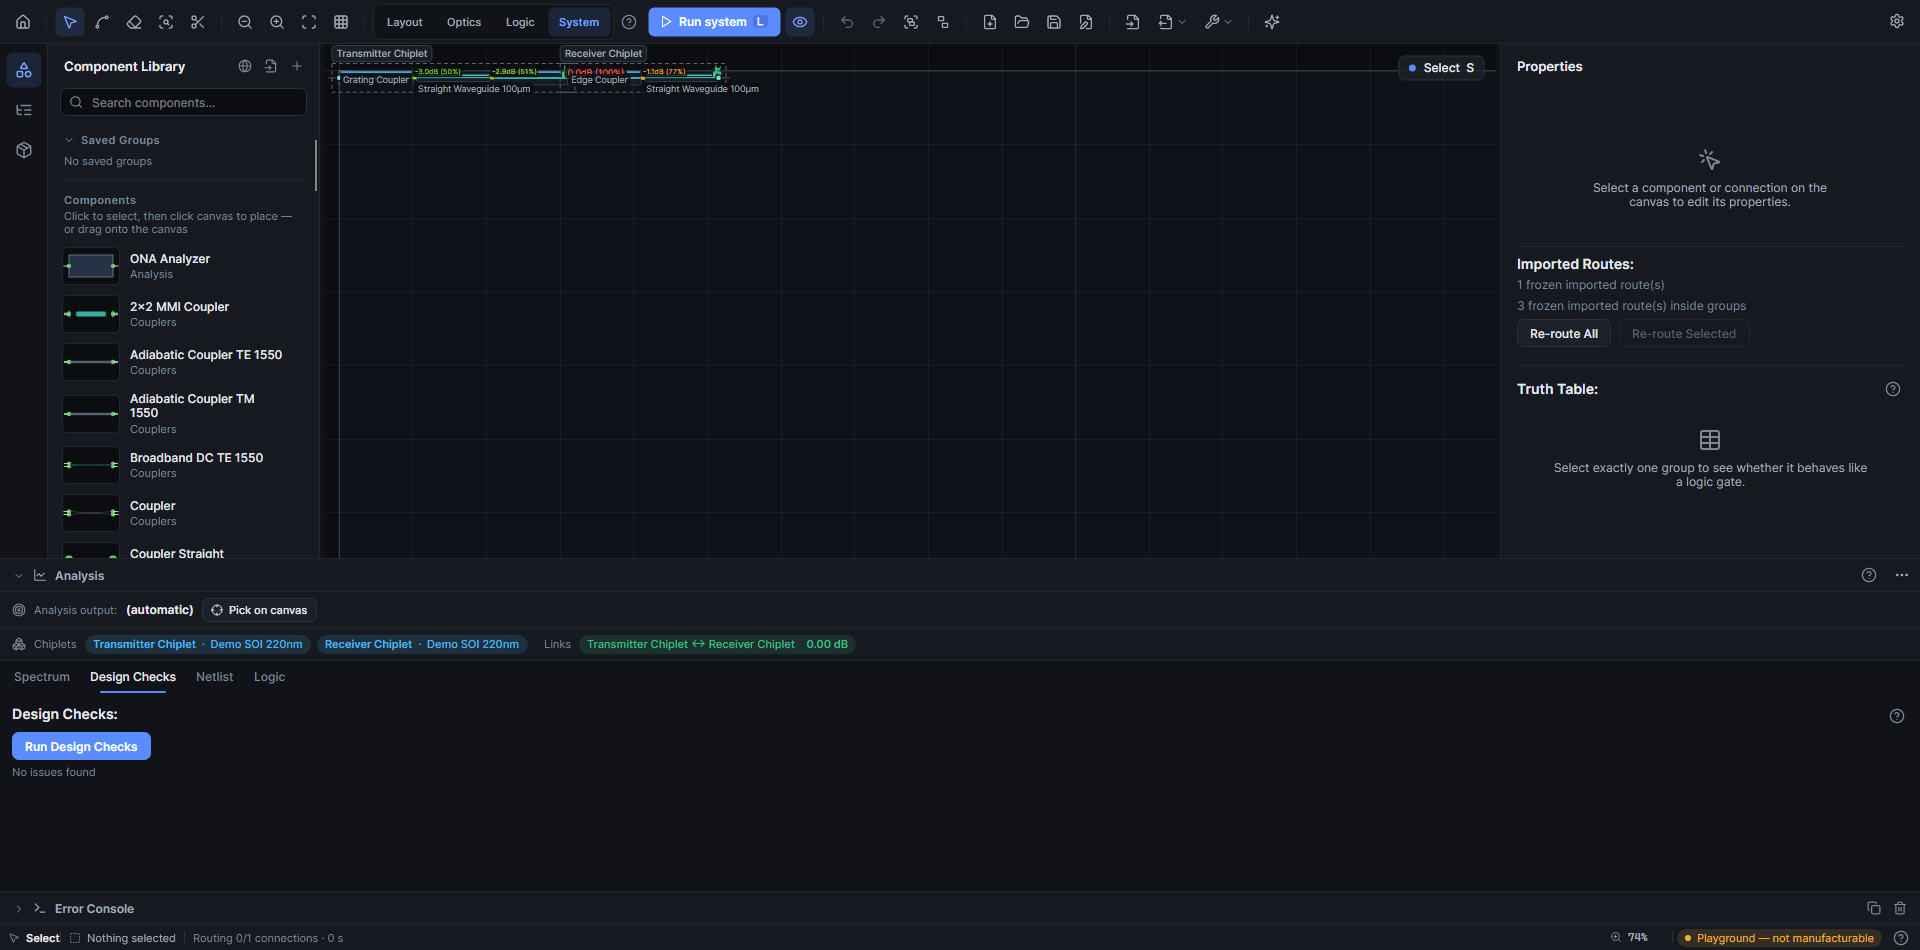
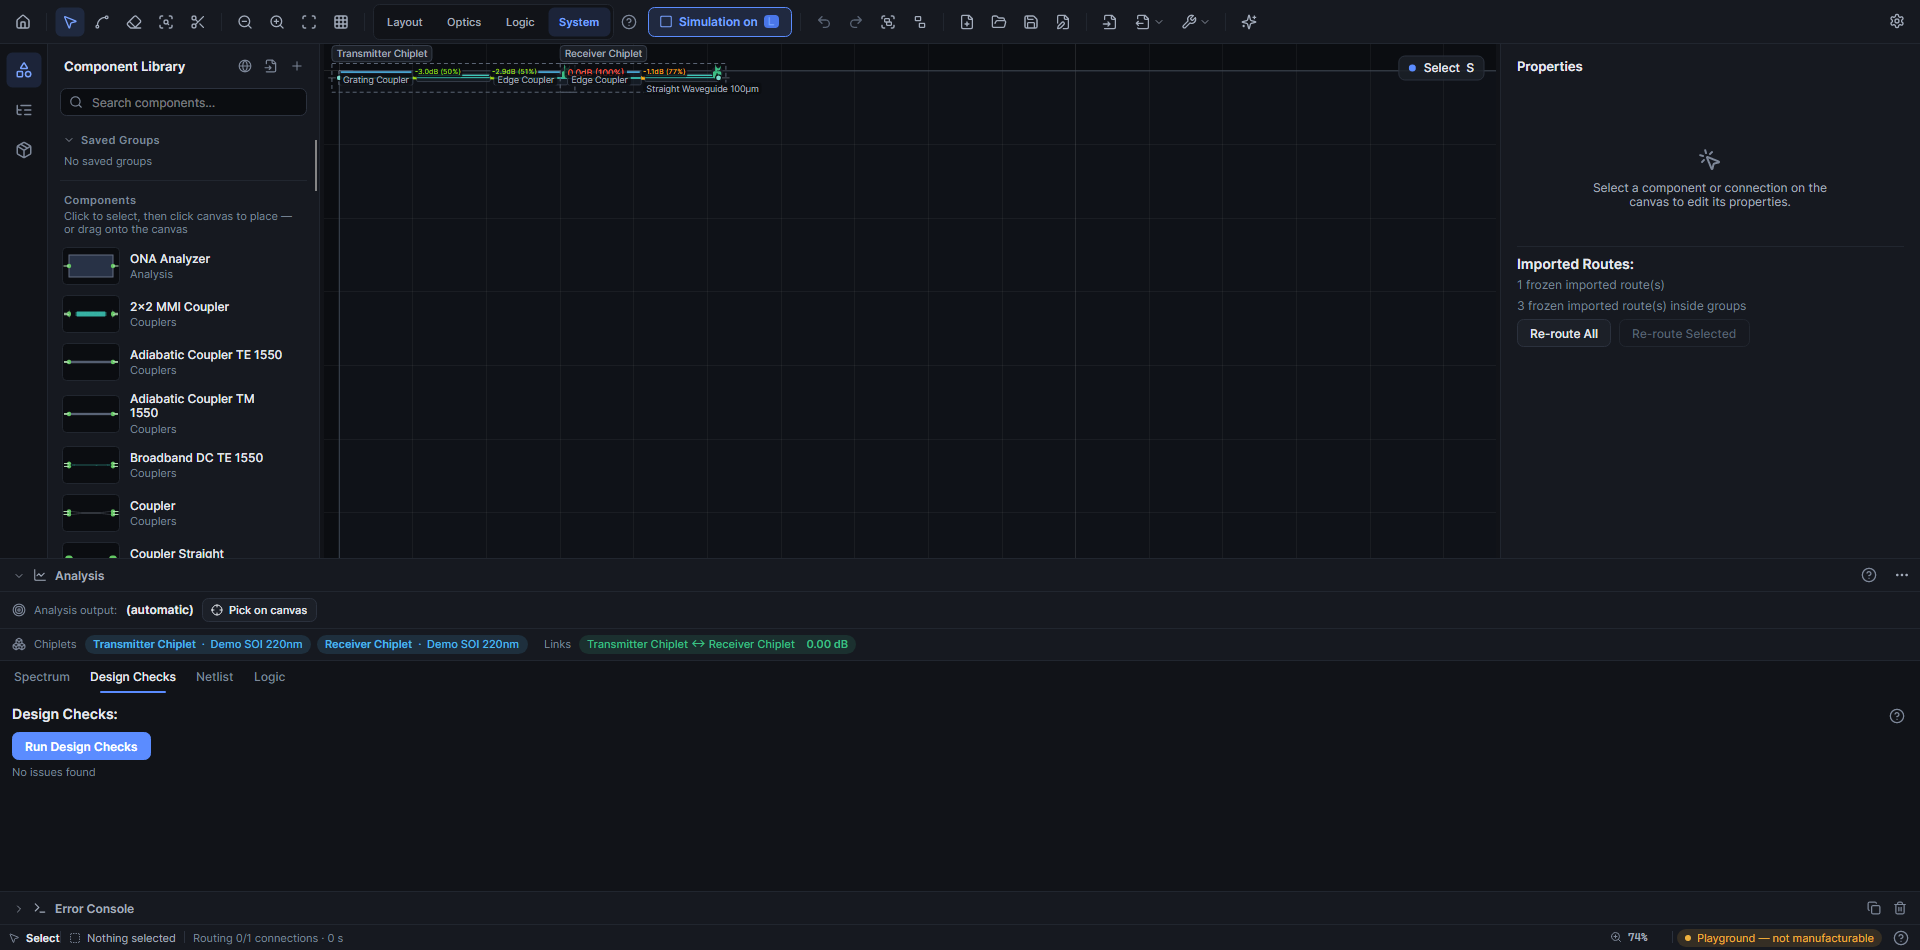
feat(workspaces): Run is the simulation on/off toggle again in Optics and System
One button instead of Run + eye: in Optics (CW) and System the first Run (or L / P)
simulates and shows the power overlay, the button then looks pressed ("Simulation on",
stop icon, tooltip "Turn simulation off (L, P)") and the next press turns it off.
Optics in Transient starts a transient run on every press; Layout (Run checks) and
Logic (Run logic) keep their non-toggle behaviour. P is the same CW toggle in every
workspace. The separate eye button and its tooltip string are gone; workspace help,
shortcut reference and tooltips updated in all five languages.

diff --git a/CAP.Avalonia/ViewModels/MainViewModel.Workspaces.cs b/CAP.Avalonia/ViewModels/MainViewModel.Workspaces.cs
@@ -7,8 +7,8 @@ namespace CAP.Avalonia.ViewModels;
 
 /// <summary>
 /// Workspace half of <see cref="MainViewModel"/>: the toolbar's workspace switch, the
-/// workspace-dependent Run action, the power-overlay toggle beside Run, and the System
-/// workspace's chiplet overview.
+/// workspace-dependent Run action (an on/off toggle of the simulation in Optics and
+/// System), and the System workspace's chiplet overview.
 /// </summary>
 public partial class MainViewModel
 {
@@ -28,6 +28,12 @@ public partial class MainViewModel
             if (workspaces.IsSystem)
                 RefreshSystemOverview();
         };
+        workspaces.IsSimulationOn = Canvas.ShowPowerFlow;
+        Canvas.PropertyChanged += (_, e) =>
+        {
+            if (e.PropertyName == nameof(Canvas.ShowPowerFlow))
+                workspaces.IsSimulationOn = Canvas.ShowPowerFlow;
+        };
         workspaces.PropertyChanged += (_, e) =>
         {
             if (e.PropertyName == nameof(WorkspaceViewModel.Current) && workspaces.IsSystem)
@@ -39,9 +45,10 @@ public partial class MainViewModel
 
     /// <summary>
     /// The Run button and the L key: runs what the active workspace means by "run".
-    /// Layout checks the design; Optics simulates (CW or transient); Logic builds the
-    /// logic network, then steps the clock; System checks the chiplet links and runs
-    /// the CW simulation over the whole multi-chiplet design.
+    /// Layout checks the design; Logic builds the logic network, then steps the clock.
+    /// Optics (CW) and System toggle: the first press simulates and shows the power
+    /// overlay (System checks the chiplet links first), the next press turns the
+    /// simulation off. Optics in Transient mode starts a transient run each press.
     /// </summary>
     [RelayCommand]
     private async Task RunWorkspace()
@@ -52,14 +59,19 @@ public partial class MainViewModel
                 await RunDesignChecks();
                 BottomPanel.Analysis.OpenChecks();
                 break;
-            case Workspace.Optics:
+            case Workspace.Optics when SimulationMode == Analysis.SimulationMode.Transient:
                 await RunSimulation();
+                break;
+            case Workspace.Optics:
+                if (!TryTurnSimulationOff())
+                    await RunSimulation();
                 break;
             case Workspace.Logic:
                 await RunLogicStep();
                 break;
             case Workspace.System:
-                await RunSystem();
+                if (!TryTurnSimulationOff())
+                    await RunSystem();
                 break;
         }
     }
@@ -93,30 +105,30 @@ public partial class MainViewModel
     }
 
     /// <summary>
-    /// The eye button beside Run and the P key: shows or hides the CW power-flow overlay.
-    /// Showing it without a result yet runs the CW simulation first.
+    /// The P key: the CW simulation on/off toggle in every workspace — the same toggle Run
+    /// (L) is in Optics and System. Turns a running simulation off, otherwise runs the CW
+    /// simulation and shows its power overlay.
     /// </summary>
     [RelayCommand]
     private async Task TogglePowerOverlay()
     {
-        if (Canvas.ShowPowerFlow)
-        {
-            Canvas.ShowPowerFlow = false;
-            Canvas.PowerFlowVisualizer.IsEnabled = false;
-            StatusText = LocalizationService.Instance.Translate("Overlay.PowerFlowOff");
+        if (TryTurnSimulationOff())
             return;
-        }
+        await ExecuteSimulation();
+    }
 
-        if (Canvas.PowerFlowVisualizer.CurrentResult == null)
-        {
-            await ExecuteSimulation();
-        }
-        else
-        {
-            Canvas.ShowPowerFlow = true;
-            Canvas.PowerFlowVisualizer.IsEnabled = true;
-            StatusText = LocalizationService.Instance.Translate("Overlay.PowerFlowOn");
-        }
+    /// <summary>
+    /// Turns the CW simulation off (hides the power overlay, stops auto-resimulation) when
+    /// it is on. Returns false — and changes nothing — when it was off.
+    /// </summary>
+    private bool TryTurnSimulationOff()
+    {
+        if (!Canvas.ShowPowerFlow)
+            return false;
+        Canvas.ShowPowerFlow = false;
+        Canvas.PowerFlowVisualizer.IsEnabled = false;
+        StatusText = LocalizationService.Instance.Translate("Status.SimulationOverlayOff");
+        return true;
     }
 
     /// <summary>

diff --git a/UnitTests/Workspaces/MainViewModelWorkspaceTests.cs b/UnitTests/Workspaces/MainViewModelWorkspaceTests.cs
@@ -13,8 +13,9 @@ using Xunit;
 namespace UnitTests.Workspaces;
 
 /// <summary>
-/// Run dispatches on the workspace, Run no longer toggles the overlay (the eye button and P
-/// do), the workspace persists in the .lun file, and the System overview lists chiplets.
+/// Run dispatches on the workspace and is the simulation on/off toggle in Optics (CW) and
+/// System (L and P are the same toggle there), the workspace persists in the .lun file, and
+/// the System overview lists chiplets.
 /// </summary>
 [Collection("LocalizationSingleton")]
 public class MainViewModelWorkspaceTests
@@ -60,6 +61,49 @@ public class MainViewModelWorkspaceTests
     }
 
     [Fact]
+    public async Task Run_InOptics_WhileSimulationIsOn_TurnsItOff()
+    {
+        var vm = MainViewModelTestHelper.CreateMainViewModel();
+        vm.WorkspaceSwitch.Current = Workspace.Optics;
+        vm.Canvas.ShowPowerFlow = true;
+        vm.WorkspaceSwitch.IsRunActive.ShouldBeTrue("the Run button shows its pressed state while the overlay is on");
+
+        await vm.RunWorkspaceCommand.ExecuteAsync(null);
+
+        vm.Canvas.ShowPowerFlow.ShouldBeFalse();
+        vm.WorkspaceSwitch.IsRunActive.ShouldBeFalse();
+        vm.StatusText.ShouldBe(LocalizationService.Instance.Translate("Status.SimulationOverlayOff"));
+    }
+
+    [Fact]
+    public async Task Run_InOptics_Transient_StartsATransientRun_InsteadOfToggling()
+    {
+        var vm = MainViewModelTestHelper.CreateMainViewModel();
+        vm.WorkspaceSwitch.Current = Workspace.Optics;
+        vm.SimulationMode = CAP.Avalonia.ViewModels.Analysis.SimulationMode.Transient;
+
+        await vm.RunWorkspaceCommand.ExecuteAsync(null);
+        await vm.RunWorkspaceCommand.ExecuteAsync(null);
+
+        vm.BottomPanel.Analysis.SelectedTabIndex.ShouldBe((int)AnalysisDockTab.Transient);
+        vm.Canvas.ShowPowerFlow.ShouldBeFalse("a transient run never shows the CW overlay");
+        vm.WorkspaceSwitch.IsRunActive.ShouldBeFalse();
+    }
+
+    [Fact]
+    public async Task Run_InLayout_DoesNotTurnARunningSimulationOff()
+    {
+        var vm = MainViewModelTestHelper.CreateMainViewModel();
+        vm.WorkspaceSwitch.Current = Workspace.Layout;
+        vm.Canvas.ShowPowerFlow = true;
+
+        await vm.RunWorkspaceCommand.ExecuteAsync(null);
+
+        vm.Canvas.ShowPowerFlow.ShouldBeTrue("Run checks is not a toggle");
+        vm.WorkspaceSwitch.IsRunActive.ShouldBeFalse("only Optics and System show Run as pressed");
+    }
+
+    [Fact]
     public async Task RunSimulation_WhileOverlayShows_DoesNotToggleItOff()
     {
         var vm = MainViewModelTestHelper.CreateMainViewModel();
@@ -67,7 +111,7 @@ public class MainViewModelWorkspaceTests
 
         await vm.RunSimulationCommand.ExecuteAsync(null);
 
-        vm.Canvas.ShowPowerFlow.ShouldBeTrue("Run always runs; hiding the overlay is the eye button's job");
+        vm.Canvas.ShowPowerFlow.ShouldBeTrue("the plain simulate command always runs; Run/L/P own the toggle");
         vm.StatusText.ShouldNotBe(LocalizationService.Instance.Translate("Status.SimulationOverlayOff"));
     }
 
@@ -81,7 +125,6 @@ public class MainViewModelWorkspaceTests
 
         vm.Canvas.ShowPowerFlow.ShouldBeFalse();
     }
-
     [Fact]
     public async Task Run_InSystem_OnTwoChipletExample_ShowsChipletsLinks_AndOverlay()
     {
@@ -96,7 +139,17 @@ public class MainViewModelWorkspaceTests
         vm.SystemOverview.Chiplets.Count.ShouldBeGreaterThanOrEqualTo(2);
         vm.SystemOverview.Links.ShouldNotBeEmpty();
         vm.Canvas.ShowPowerFlow.ShouldBeTrue(vm.StatusText);
+        vm.WorkspaceSwitch.IsRunActive.ShouldBeTrue();
         vm.BottomPanel.Analysis.SelectedTabIndex.ShouldBe((int)AnalysisDockTab.Checks);
+
+        await vm.RunWorkspaceCommand.ExecuteAsync(null);
+
+        vm.Canvas.ShowPowerFlow.ShouldBeFalse("the second Run turns the system simulation off");
+        vm.WorkspaceSwitch.IsRunActive.ShouldBeFalse();
+
+        await vm.TogglePowerOverlayCommand.ExecuteAsync(null);
+
+        vm.Canvas.ShowPowerFlow.ShouldBeTrue("P is the same toggle: it switches the simulation back on");
     }
 
     [Fact]

diff --git a/CAP.Avalonia/ViewModels/Workspaces/WorkspaceViewModel.cs b/CAP.Avalonia/ViewModels/Workspaces/WorkspaceViewModel.cs
@@ -12,19 +12,30 @@ namespace CAP.Avalonia.ViewModels.Workspaces;
 /// <summary>
 /// The toolbar's workspace switch (Layout / Optics / Logic / System): holds the active
 /// <see cref="Workspace"/>, restricts the analysis dock to the workspace's tabs and exposes
-/// the Run button's label and tooltip. The workspace is stored per design in the .lun file
+/// the Run button's label, tooltip and pressed state. The workspace is stored per design in the .lun file
 /// (<see cref="CaptureForSave"/> / <see cref="RestoreAfterLoad"/>); switching it is a view
 /// change and does not mark the design dirty.
 /// </summary>
 public partial class WorkspaceViewModel : ObservableObject
 {
+    private const string ActiveRunLabelKey = "Workspace.RunActive";
+    private const string ActiveRunTipKey = "Workspace.RunActiveTip";
+
     private readonly AnalysisDockViewModel _dock;
 
     /// <summary>The active workspace.</summary>
     [ObservableProperty]
     [NotifyPropertyChangedFor(nameof(IsLayout), nameof(IsOptics), nameof(IsLogic), nameof(IsSystem),
-        nameof(Profile), nameof(RunLabel), nameof(RunTip), nameof(IsOpticalWorkspace))]
+        nameof(Profile), nameof(RunLabel), nameof(RunTip), nameof(IsOpticalWorkspace), nameof(IsRunActive))]
     private Workspace _current;
+
+    /// <summary>
+    /// Whether the CW simulation and its power overlay are on. Mirrors the canvas overlay
+    /// state; in Optics and System it turns Run into an on/off toggle (<see cref="IsRunActive"/>).
+    /// </summary>
+    [ObservableProperty]
+    [NotifyPropertyChangedFor(nameof(IsRunActive), nameof(RunLabel), nameof(RunTip))]
+    private bool _isSimulationOn;
 
     /// <summary>Creates the switch over the analysis dock it filters; starts in <see cref="Workspace.Layout"/>.</summary>
     public WorkspaceViewModel(AnalysisDockViewModel dock)
@@ -49,14 +60,22 @@ public partial class WorkspaceViewModel : ObservableObject
     /// <summary>True in the System workspace.</summary>
     public bool IsSystem => Current == Workspace.System;
 
-    /// <summary>True where Run simulates light (Optics, System): shows the power-overlay toggle and the analysis-output picker.</summary>
+    /// <summary>True where Run simulates light (Optics, System): Run toggles the simulation, and the analysis-output picker shows.</summary>
     public bool IsOpticalWorkspace => Current is Workspace.Optics or Workspace.System;
 
-    /// <summary>Run button label naming the action, e.g. "Run checks".</summary>
-    public string RunLabel => LocalizationService.Instance.Translate(Profile.RunLabelKey);
+    /// <summary>
+    /// True while Run shows its pressed state: the simulation is on in a light-simulating
+    /// workspace, so the next Run (or L / P) turns it off.
+    /// </summary>
+    public bool IsRunActive => IsOpticalWorkspace && IsSimulationOn;
 
-    /// <summary>Run button tooltip: what Run does in this workspace, with its key hint.</summary>
-    public string RunTip => LocalizationService.Instance.Translate(Profile.RunTipKey);
+    /// <summary>Run button label naming the action, e.g. "Run checks", or "Simulation on" while active.</summary>
+    public string RunLabel => LocalizationService.Instance.Translate(
+        IsRunActive ? ActiveRunLabelKey : Profile.RunLabelKey);
+
+    /// <summary>Run button tooltip: what Run does in this workspace (or how to turn it off), with its key hint.</summary>
+    public string RunTip => LocalizationService.Instance.Translate(
+        IsRunActive ? ActiveRunTipKey : Profile.RunTipKey);
 
     /// <summary>Switches to <paramref name="workspace"/> (toolbar segments, Ctrl+1..4).</summary>
     [RelayCommand]

diff --git a/UnitTests/Workspaces/WorkspaceViewModelTests.cs b/UnitTests/Workspaces/WorkspaceViewModelTests.cs
@@ -89,6 +89,45 @@ public class WorkspaceViewModelTests
         vm.IsOpticalWorkspace.ShouldBeTrue("System runs the CW simulation too");
     }
 
+    [Theory]
+    [InlineData(Workspace.Optics, true)]
+    [InlineData(Workspace.System, true)]
+    [InlineData(Workspace.Layout, false)]
+    [InlineData(Workspace.Logic, false)]
+    public void RunIsAToggle_OnlyWhereItSimulatesLight(Workspace workspace, bool toggles)
+    {
+        var vm = new WorkspaceViewModel(MakeDock()) { Current = workspace };
+        string offLabel = vm.RunLabel;
+
+        vm.IsSimulationOn = true;
+
+        vm.IsRunActive.ShouldBe(toggles);
+        if (toggles)
+        {
+            vm.RunLabel.ShouldNotBe(offLabel, "the pressed Run names its state, e.g. \"Simulation on\"");
+            vm.RunTip.ShouldContain("(L, P)");
+        }
+        else
+        {
+            vm.RunLabel.ShouldBe(offLabel, "Run checks / Run logic never become a toggle");
+        }
+    }
+
+    [Fact]
+    public void RunActive_RaisesLabelChanges_WhenTheSimulationTurnsOff()
+    {
+        var vm = new WorkspaceViewModel(MakeDock()) { Current = Workspace.Optics, IsSimulationOn = true };
+        var changed = new List<string?>();
+        vm.PropertyChanged += (_, e) => changed.Add(e.PropertyName);
+
+        vm.IsSimulationOn = false;
+
+        vm.IsRunActive.ShouldBeFalse();
+        changed.ShouldContain(nameof(WorkspaceViewModel.IsRunActive));
+        changed.ShouldContain(nameof(WorkspaceViewModel.RunLabel));
+        changed.ShouldContain(nameof(WorkspaceViewModel.RunTip));
+    }
+
     [Fact]
     public void ShowAllTabs_ShowsEveryTab_AndKeepsSelection()
     {

diff --git a/UnitTests/UI/WorkspacesScreenshotTests.cs b/UnitTests/UI/WorkspacesScreenshotTests.cs
@@ -15,8 +15,8 @@ using Xunit;
 namespace UnitTests.UI;
 
 /// <summary>
-/// Visual documentation of the workspace switch: the toolbar (switch, Run label, overlay
-/// eye) and the analysis dock in each of Layout / Optics / Logic / System, the System
+/// Visual documentation of the workspace switch: the toolbar (switch, Run label and its
+/// pressed "Simulation on" state) and the analysis dock in each of Layout / Optics / Logic / System, the System
 /// chiplet strip, the self-explaining empty tabs and the "show all tabs" override.
 /// Opt-in (UI_SHOT_DIR); PNGs land in <c>docs/pr-media/workspaces/</c> with
 /// <c>CAP_UPDATE_PR_MEDIA=1</c>, otherwise in a temp directory.

diff --git a/CAP.Avalonia/ViewModels/MainViewModel.cs b/CAP.Avalonia/ViewModels/MainViewModel.cs
@@ -1345,7 +1345,7 @@ public partial class MainViewModel : ObservableObject
             return;
         }
 
-        // Run always runs: the overlay has its own toggle (TogglePowerOverlay, P).
+        // Always runs; the on/off toggle lives in RunWorkspace / TogglePowerOverlay (L, P).
         await ExecuteSimulation();
     }
 
